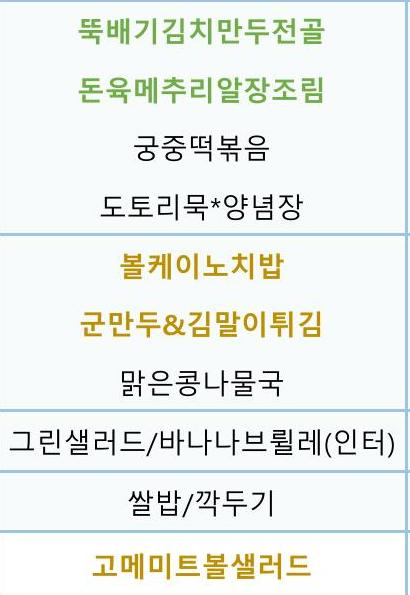
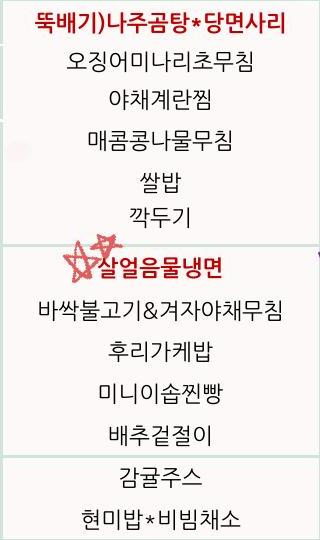
Add Data (Week 20)

Changed region(s): [[0.0, 0.0, 1.0, 1.0]]

diff --git a/src/python/image_crop.py b/src/python/image_crop.py
@@ -10,23 +10,32 @@ def image_cropping(name, rectangle):
         im_crop.save("../html/image/" + name + ".jpg")
 
 
-def execute_image_crop():
+def execute_image_crop(location):
     print("execute_image_crop...")
 
-    a = 320
-    b = 715
-    c = 1125
-    d = 1510
-    e = 1890
-    f = 2280
+    if location == '을지로':
+        mon = 320
+        tue = 715
+        wed = 1125
+        thu = 1510
+        fri = 1890
+        end = 2280
+        top = 470
+        bottom = 1065
+    elif location == '명동':
+        mon = 445
+        tue = 760
+        wed = 1080
+        thu = 1400
+        fri = 1720
+        end = 2040
+        top = 440
+        bottom = 980
 
-    top = 470
-    bottom = 1065
+    image_cropping("week", (mon, top, end, bottom))
 
-    image_cropping("week", (a, top, f, bottom))
-
-    image_cropping("mon", (a, top, b, bottom))
-    image_cropping("tue", (b, top, c, bottom))
-    image_cropping("wed", (c, top, d, bottom))
-    image_cropping("thu", (d, top, e, bottom))
-    image_cropping("fri", (e, top, f, bottom))
+    image_cropping("mon", (mon, top, tue, bottom))
+    image_cropping("tue", (tue, top, wed, bottom))
+    image_cropping("wed", (wed, top, thu, bottom))
+    image_cropping("thu", (thu, top, fri, bottom))
+    image_cropping("fri", (fri, top, end, bottom))

diff --git a/src/python/every_meal.py b/src/python/every_meal.py
@@ -2,4 +2,4 @@ from image_crop import execute_image_crop
 from pdf_to_image import execute_pdf_to_image
 
 execute_pdf_to_image()
-execute_image_crop()
+execute_image_crop('명동')
